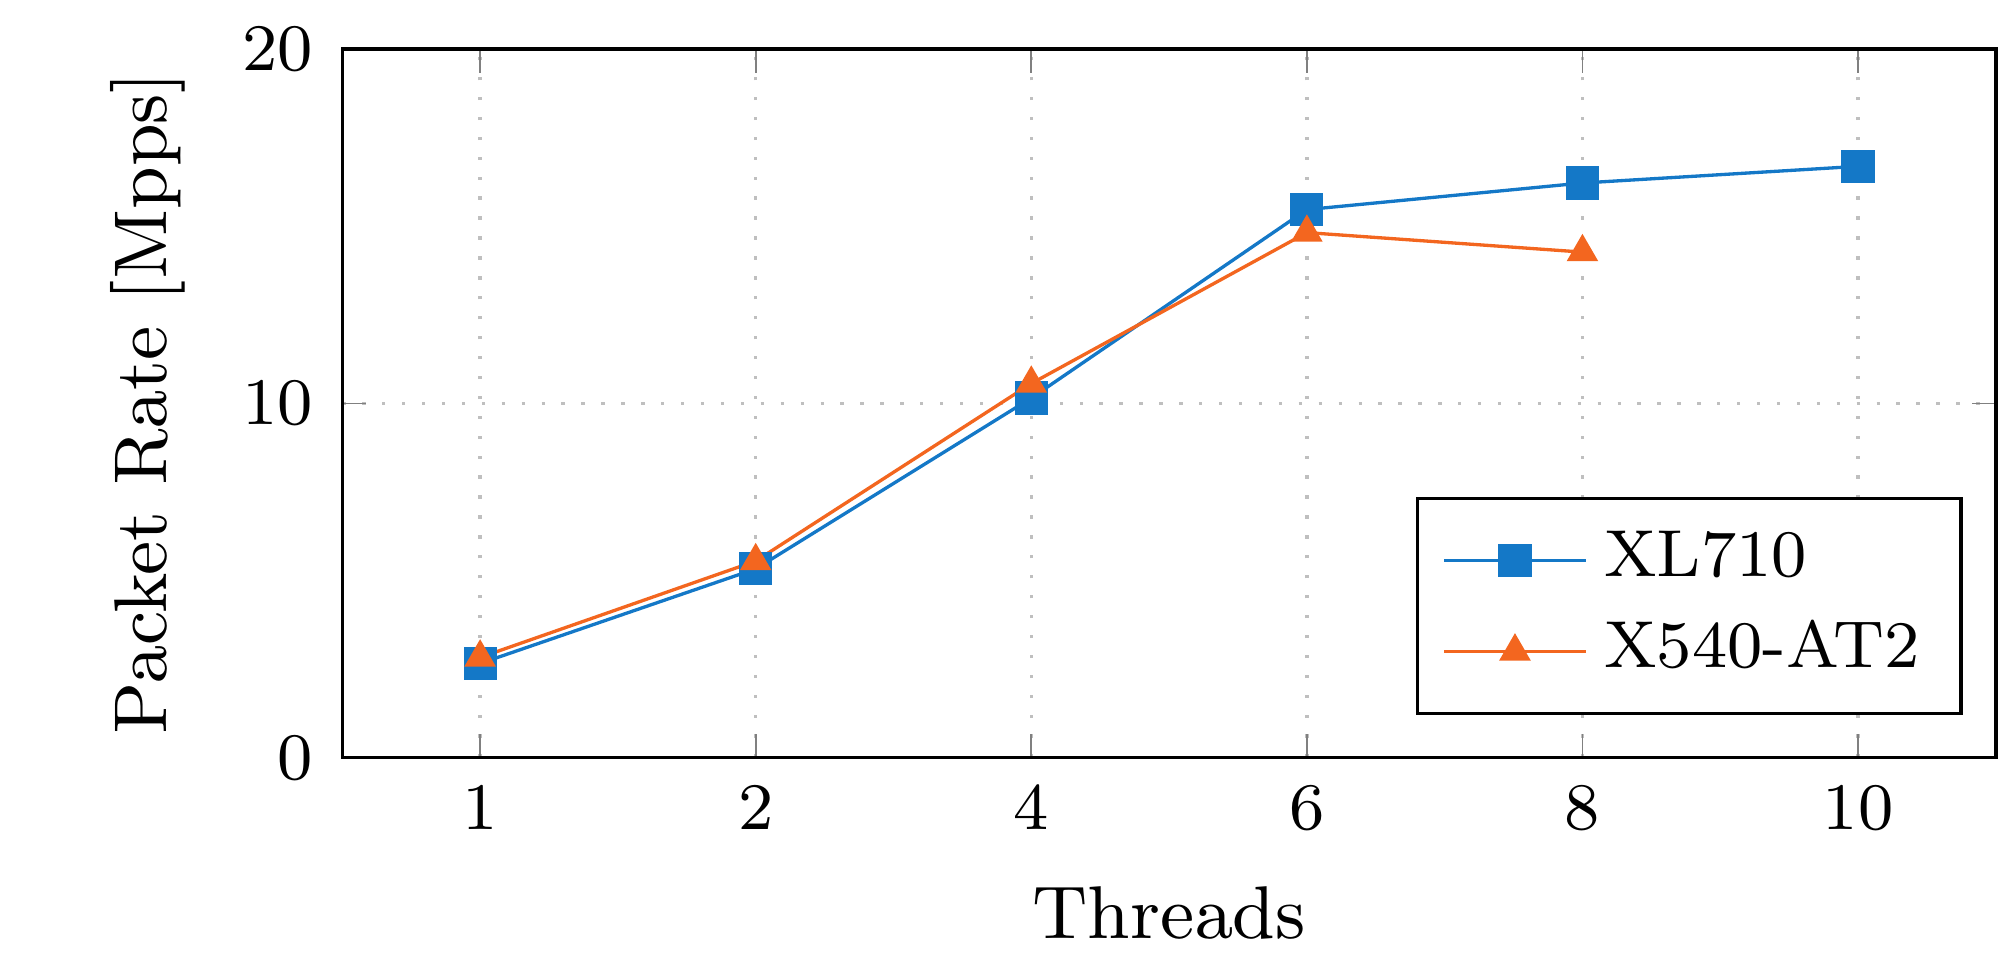
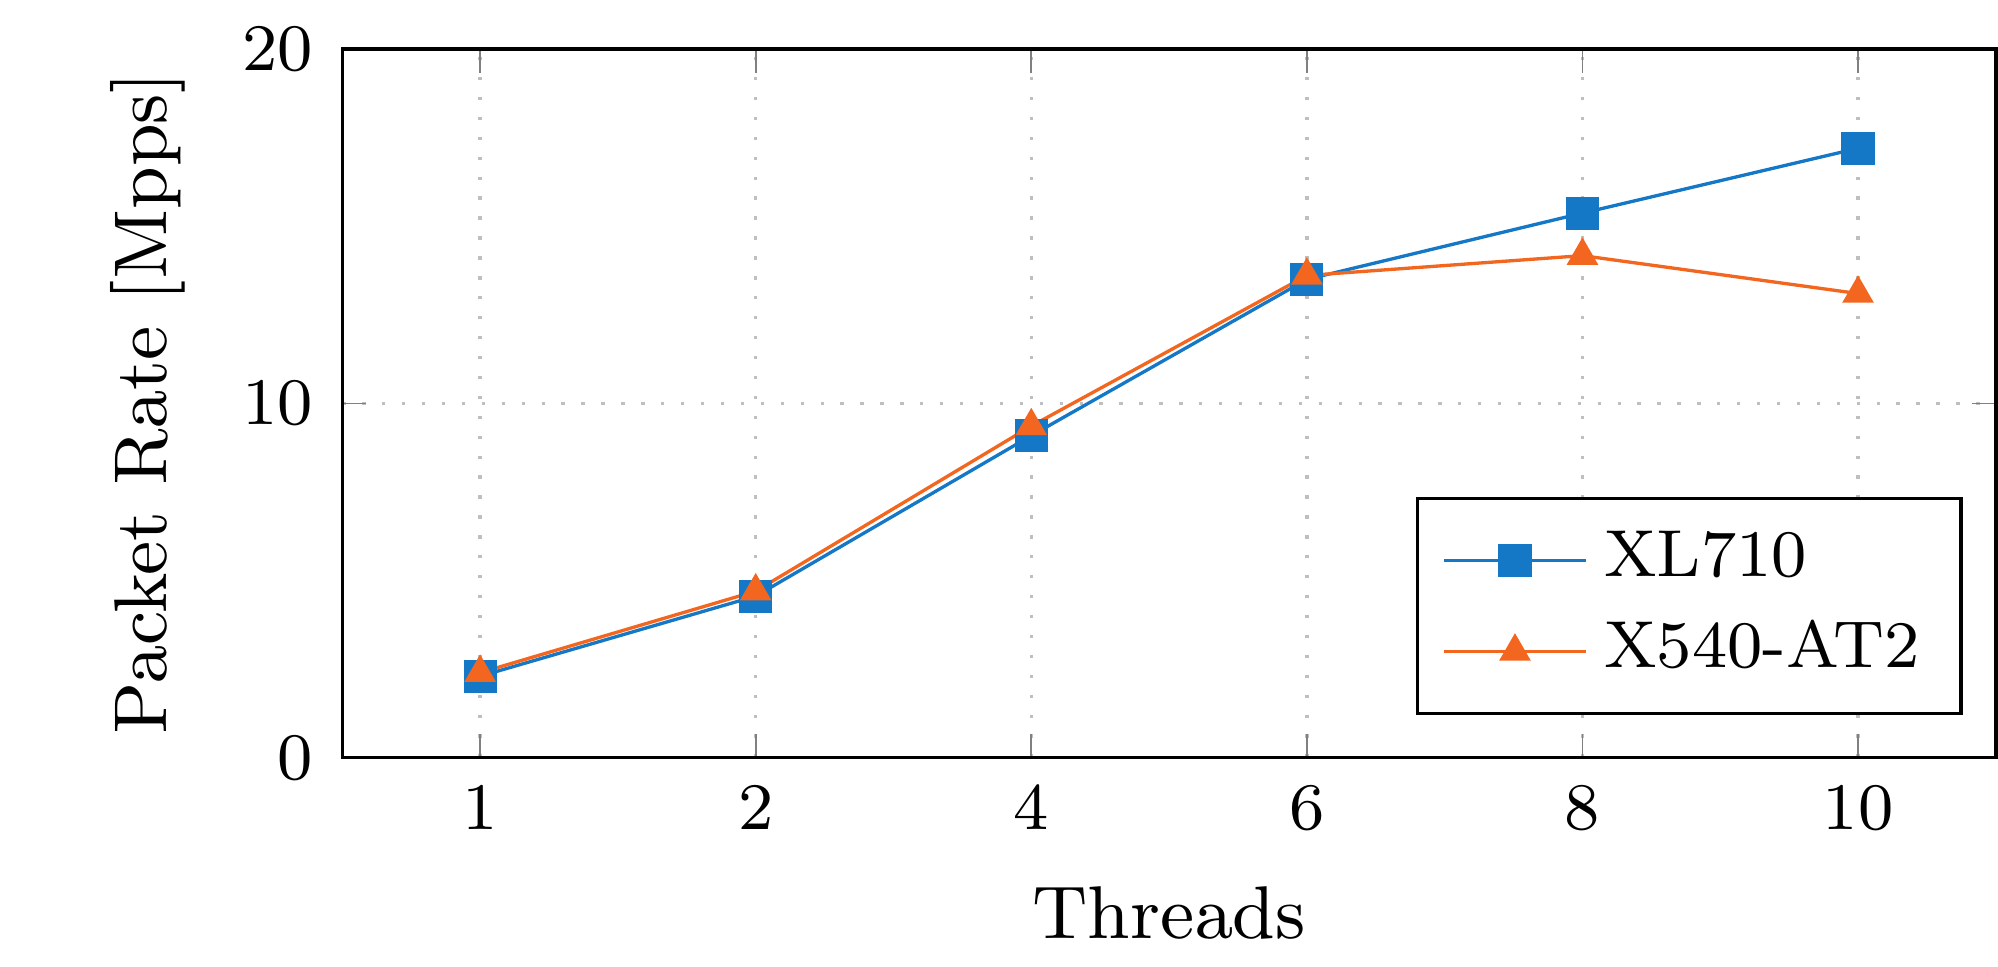
Update benchmarks

Changed region(s): [[0.2172, 0.1241, 0.962, 0.7135], [0.8378, 0.2792, 0.9309, 0.3102]]

diff --git a/benchmarks/flow-scaling.tex b/benchmarks/flow-scaling.tex
@@ -1,0 +1,74 @@
+\documentclass[border=0pt]{standalone}
+
+\usepackage{tumcolors}
+\usepackage{pgfplots}
+\pgfplotsset{compat=newest}
+\pgfplotsset{grid style={dotted}}
+\usetikzlibrary{plotmarks}
+
+\begin{document}
+
+\pgfplotsset{compat=newest}
+\pgfplotsset{grid style={dotted}}
+\tikzset{every mark/.append style={scale=0.9}}
+\begin{tikzpicture}
+
+\begin{axis}[
+	axis y line*=right,
+	axis x line=none,
+	ylabel={Checker time [s]},
+	footnotesize,
+	scale only axis,
+	width=7cm,
+	height=3cm,
+	grid=none,
+	ymin=0,
+	symbolic x coords={1 K, 10 K, 100 K, 1 M, 10 M},
+	xtick=data,
+	every axis legend/.append style={nodes={right}},
+	ybar,
+]
+\addplot[color=TUMOrange,fill=TUMOrange] coordinates {
+(1 K, 0.00049)
+(10 K, 0.004)
+(100 K, 0.43)
+(1 M, 0.56)
+(10 M, 6.2)
+};
+\end{axis}
+
+\begin{axis}[
+	footnotesize,
+	scale only axis,
+	width=7cm,
+	height=3cm,
+	xlabel=Flows,	
+	ymin=0,
+	ymax=20,
+	symbolic x coords={1 K, 10 K, 100 K, 1 M, 10 M},
+	xtick=data,
+	ytick={0,10, 20, 30},
+	ylabel=Packet Rate {[}Mpps{]},
+	grid=major,
+	legend entries={XL710, X540-AT2},
+	legend style={at={(0.28,0.80)},anchor=south east, font=\footnotesize},
+	every axis legend/.append style={nodes={right}}
+]
+\addplot[mark=square*,color=TUMBlue] coordinates {
+(1 K, 13.29)
+(10 K, 14.10)
+(100 K, 14.5)
+(1 M, 9.05)
+(10 M, 8.62)
+};
+%\addplot[only marks,mark=square,color=TUMBlue, error bars/.cd,y dir=both,y explicit]  coordinates {
+%(1 K, 13.29) +- (0, 0.05)
+%(10 K, 14.10) +- (0, 0.2)
+%(100 K, 14.5) +- (0, 0.34)
+%(1 M, 9.05) +- (0, 0.25)
+%(10 M, 8.62) +- (0, 0.20)
+%};
+\end{axis}
+
+\end{tikzpicture}
+\end{document}

diff --git a/benchmarks/noop.tex b/benchmarks/noop.tex
@@ -30,19 +30,20 @@
 	every axis legend/.append style={nodes={right}}
 ]
 \addplot[mark=square*,color=TUMBlue] coordinates {
-(1, 2.66)
-(2, 5.33)
-(4, 10.15)
-(6, 15.47)
-(8, 16.22)
-(10, 16.69)
+(1, 2.30)
+(2, 4.56)
+(4, 9.09)
+(6, 13.5)
+(8, 15.37)
+(10, 17.2)
 };
 \addplot[mark=triangle*,color=TUMOrange] coordinates {
-(1, 2.83)
-(2, 5.55)
-(4, 10.56)
-(6, 14.82)
-(8, 14.27)
+(1, 2.40)
+(2, 4.70)
+(4, 9.36)
+(6, 13.61)
+(8, 14.17)
+(10, 13.1)
 };
 \end{axis}
 \end{tikzpicture}
